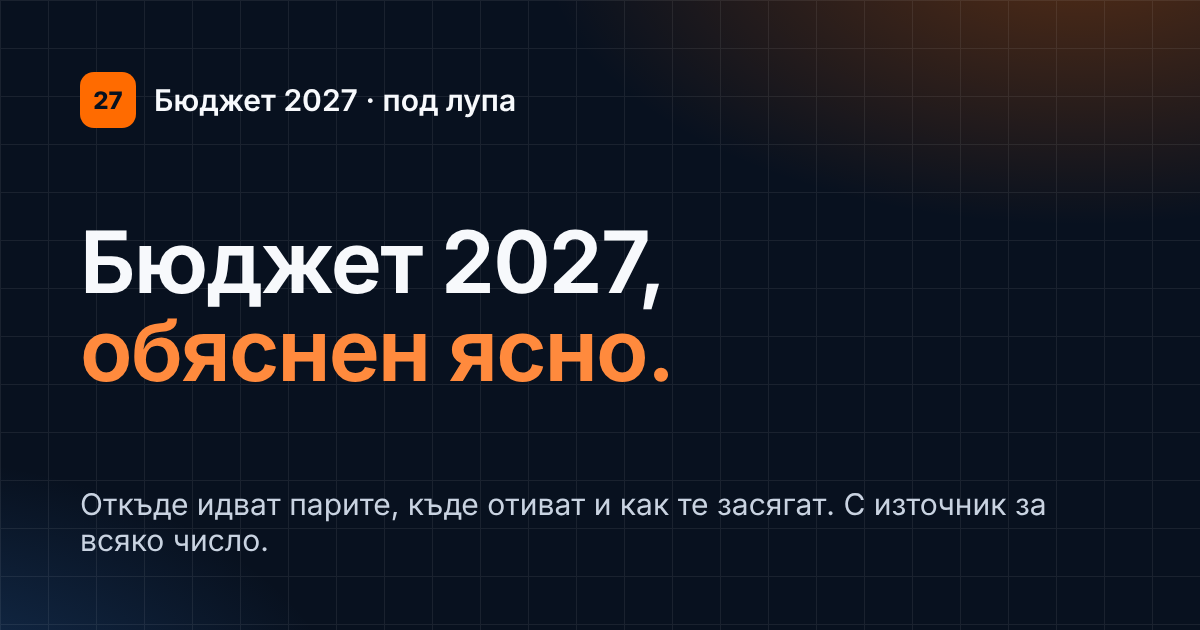
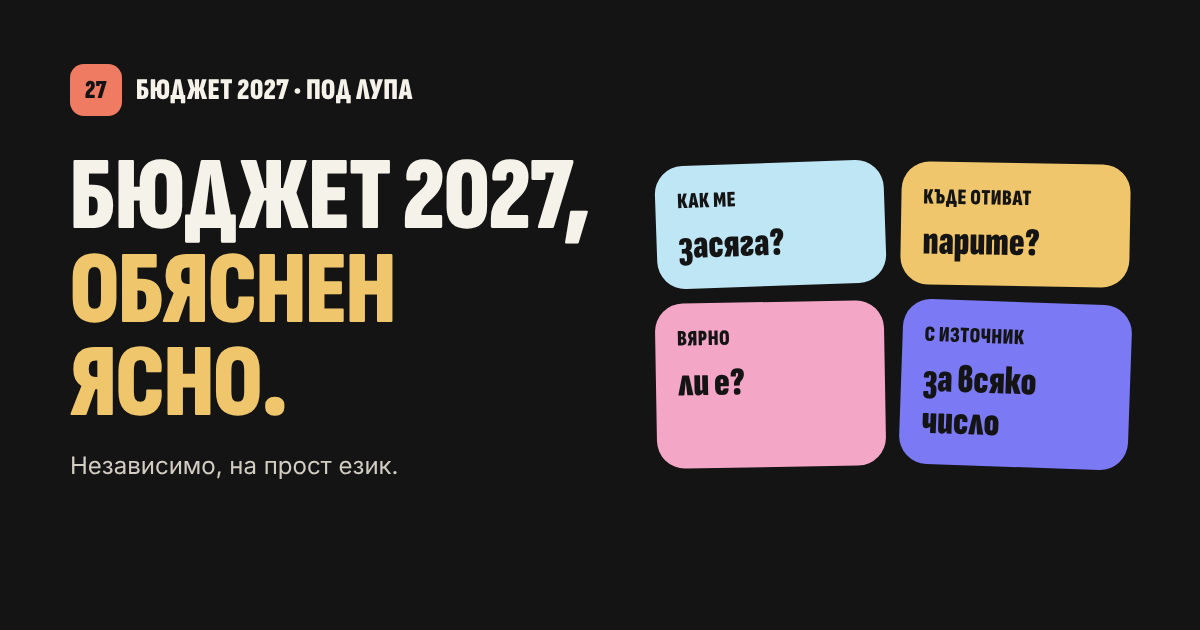
Fonts: Sofia Sans Extra Condensed (Bulgarian letterforms) for headings, Inter for text
- Replace Oswald with Sofia Sans Extra Condensed 800/900, locl on; headings ~15% larger to keep weight
- New OG image with the same fonts and no figures (a static image cannot carry a source)

Claude-Session: https://claude.ai/code/session_018DNDP1WdFr498i873xvtDW

diff --git a/budget-2027/src/app/page.tsx b/budget-2027/src/app/page.tsx
@@ -121,7 +121,7 @@ export default async function Home() {
                 <span className="h-2 w-2 rounded-full bg-card-rose" aria-hidden />
                 Законопроект, внесен на {dateBg(bill.date)} · още не е приет
               </p>
-              <h1 id="hero-title" className="font-display text-[3.1rem] leading-[0.95] font-semibold tracking-tight uppercase sm:text-7xl lg:text-[5.5rem]">
+              <h1 id="hero-title" className="font-display text-[3.6rem] leading-[0.92] font-semibold tracking-tight uppercase sm:text-[5.2rem] lg:text-[6.6rem]">
                 Бюджет 2027,
                 <br />
                 <span className="text-card-mustard">обяснен ясно.</span>
@@ -159,7 +159,7 @@ export default async function Home() {
 
         {/* ── Entry points ───────────────────────────────────── */}
         <section aria-labelledby="start-title" className="mx-auto max-w-7xl px-4 pt-14 sm:px-6 sm:pt-20">
-          <h2 id="start-title" className="font-display text-4xl font-semibold tracking-tight sm:text-5xl">
+          <h2 id="start-title" className="font-display text-[2.6rem] leading-[1] font-semibold tracking-tight sm:text-[3.4rem]">
             С какво да започнеш?
           </h2>
           <ul className="mt-8 grid gap-5 md:grid-cols-3">
@@ -167,7 +167,7 @@ export default async function Home() {
               <li key={e.href}>
                 <Link href={e.href} className={`group relative flex h-full flex-col gap-4 rounded-[2rem] p-6 text-on-card shadow-xl shadow-black/10 transition duration-300 hover:-translate-y-1 sm:p-7 ${ENTRY_BG[i]}`}>
                   <span className="flex items-start justify-between gap-4">
-                    <span className="font-display text-[2rem] leading-[0.95] font-semibold tracking-tight">{e.title}</span>
+                    <span className="font-display text-[2.4rem] leading-[0.95] font-semibold tracking-tight">{e.title}</span>
                     <span aria-hidden className="grid h-11 w-11 shrink-0 place-items-center rounded-full bg-white text-[#141414] shadow-md transition group-hover:rotate-45">
                       <Icon name="arrow" className="h-5 w-5 -rotate-45" />
                     </span>
@@ -190,7 +190,7 @@ export default async function Home() {
           <div className="grid gap-10 lg:grid-cols-[minmax(0,5fr)_minmax(0,7fr)] lg:items-start [&>*]:min-w-0">
             <div className="flex flex-col gap-4">
               <p className="inline-flex w-fit rounded-full bg-card-mustard px-3 py-1 text-[13px] font-semibold text-on-card">Къде отиват парите</p>
-              <h2 id="kade-title" className="font-display text-4xl leading-[1.05] font-semibold tracking-tight text-balance sm:text-5xl">
+              <h2 id="kade-title" className="font-display text-[2.6rem] leading-[1] font-semibold tracking-tight text-balance sm:text-[3.4rem]">
                 {fmtNum(top[0]!.share, 0)}% от разходите отиват за {top[0]!.label.toLowerCase().replace(", подпомагане и грижи", ", помощи и грижи")}
               </h2>
               <p className="text-[17px] leading-relaxed text-ink-2">
@@ -212,7 +212,7 @@ export default async function Home() {
             <div className="flex flex-wrap items-end justify-between gap-3">
               <div>
                 <p className="inline-flex w-fit rounded-full bg-card-rose px-3 py-1 text-[13px] font-semibold text-on-card">Дефицит</p>
-                <h2 id="def-title" className="font-display mt-3 text-3xl font-semibold tracking-tight sm:text-4xl">
+                <h2 id="def-title" className="font-display mt-3 text-[2.2rem] leading-[1] font-semibold tracking-tight sm:text-[2.8rem]">
                   Колко не достига всяка година
                 </h2>
               </div>
@@ -244,7 +244,7 @@ export default async function Home() {
         {/* ── Three things to know ───────────────────────────── */}
         <section aria-labelledby="know-title" className="mx-auto max-w-7xl px-4 pt-16 sm:px-6 sm:pt-24">
           <div className="flex flex-wrap items-end justify-between gap-4">
-            <h2 id="know-title" className="font-display text-4xl font-semibold tracking-tight sm:text-5xl">
+            <h2 id="know-title" className="font-display text-[2.6rem] leading-[1] font-semibold tracking-tight sm:text-[3.4rem]">
               3 неща, които да знаеш
             </h2>
             <Link href="/pod-lupa" className="inline-flex items-center gap-2 text-[15px] font-semibold text-accent">
@@ -261,7 +261,7 @@ export default async function Home() {
                       {f.tone === "positive" ? "Подобрение" : f.tone === "risk" ? "Риск" : "Данни"}
                     </span>
                   </span>
-                  <span className="font-display text-2xl leading-tight font-semibold tracking-tight text-balance">{f.title}</span>
+                  <span className="font-display text-[1.8rem] leading-[1.05] font-semibold tracking-tight text-balance">{f.title}</span>
                   <span className="text-[16px] leading-relaxed text-ink-2">{bgText(f.conclusion)}</span>
                   <span className="mt-auto flex items-center justify-between pt-2 text-sm font-semibold">
                     <span className="text-muted">Как го изчислихме</span>
@@ -277,7 +277,7 @@ export default async function Home() {
 
         {/* ── Topics ─────────────────────────────────────────── */}
         <section aria-labelledby="topics-title" className="mx-auto max-w-7xl px-4 pt-16 sm:px-6 sm:pt-24">
-          <h2 id="topics-title" className="font-display text-4xl font-semibold tracking-tight sm:text-5xl">
+          <h2 id="topics-title" className="font-display text-[2.6rem] leading-[1] font-semibold tracking-tight sm:text-[3.4rem]">
             Разгледай по тема
           </h2>
           <ul className="mt-8 grid grid-cols-2 gap-3 sm:grid-cols-3 lg:grid-cols-4">
@@ -300,7 +300,7 @@ export default async function Home() {
         {/* ── Trust ──────────────────────────────────────────── */}
         <section aria-labelledby="trust-title" className="mx-auto max-w-7xl px-4 pt-16 pb-6 sm:px-6 sm:pt-24">
           <div className="rounded-[2rem] bg-card-mustard p-6 text-on-card sm:p-10">
-            <h2 id="trust-title" className="font-display text-4xl font-semibold tracking-tight sm:text-5xl">
+            <h2 id="trust-title" className="font-display text-[2.6rem] leading-[1] font-semibold tracking-tight sm:text-[3.4rem]">
               Защо да ни вярваш?
             </h2>
             <ul className="mt-8 grid gap-8 md:grid-cols-3">

diff --git a/budget-2027/src/components/site/PageShell.tsx b/budget-2027/src/components/site/PageShell.tsx
@@ -52,7 +52,7 @@ export async function PageShell({
         <header className="on-dark bg-hero">
           <div className="mx-auto flex max-w-7xl flex-col gap-5 px-4 pt-9 pb-10 sm:px-6 sm:pt-14 sm:pb-14">
             <p className="inline-flex w-fit items-center rounded-full bg-card-mustard px-3 py-1 text-[13px] font-semibold text-on-card">{eyebrow}</p>
-            <h1 className="font-display max-w-4xl text-[2.6rem] leading-[1] font-semibold tracking-tight text-balance uppercase sm:text-6xl">{title}</h1>
+            <h1 className="font-display max-w-4xl text-[3rem] leading-[0.95] font-semibold tracking-tight text-balance uppercase sm:text-[4.4rem]">{title}</h1>
             <div className="flex max-w-3xl flex-col gap-3 text-[17px] leading-relaxed text-ink-2">{lead}</div>
             {facts && facts.length > 0 && (
               <section aria-label="Накратко" className="mt-2">
@@ -61,7 +61,7 @@ export async function PageShell({
                   {facts.map((f) => (
                     <div key={f.label} className={`flex flex-col gap-1 rounded-3xl p-4 text-on-card shadow-lg shadow-black/30 sm:p-5 ${TONE[f.tone]}`}>
                       <dt className="text-sm font-semibold">{f.label}</dt>
-                      <dd className="num font-display text-[2.3rem] leading-none font-semibold">
+                      <dd className="num font-display text-[2.7rem] leading-none font-semibold">
                         {fmtNum(f.value, f.decimals ?? 1)}
                         <span className="ml-1.5 font-sans text-sm font-medium">{f.unit}</span>
                       </dd>
@@ -89,7 +89,7 @@ export function Section({ id, title, lead, children }: { id?: string; title: str
   return (
     <section id={id} aria-labelledby={id ? `${id}-t` : undefined} className="flex scroll-mt-24 flex-col gap-5">
       <div className="flex max-w-3xl flex-col gap-2">
-        <h2 id={id ? `${id}-t` : undefined} className="font-display text-[1.9rem] leading-tight font-semibold tracking-tight text-balance sm:text-[2.3rem]">
+        <h2 id={id ? `${id}-t` : undefined} className="font-display text-[2.2rem] leading-[1.02] font-semibold tracking-tight text-balance sm:text-[2.8rem]">
           {title}
         </h2>
         {lead && <div className="text-[16px] leading-relaxed text-ink-2">{lead}</div>}

diff --git a/budget-2027/src/app/kalkulator/page.tsx b/budget-2027/src/app/kalkulator/page.tsx
@@ -30,7 +30,7 @@ export default async function CalculatorPage() {
       <main id="main" className="mx-auto flex max-w-7xl flex-col gap-8 px-4 pt-8 pb-28 sm:px-6 sm:pt-12 lg:pb-20">
         <header className="flex max-w-3xl flex-col gap-4">
           <p className="inline-flex w-fit items-center rounded-full bg-card-mustard px-3 py-1 text-[13px] font-semibold text-on-card">Калкулатор · трудов договор</p>
-          <h1 className="font-display text-[2.6rem] leading-[1] font-semibold tracking-tight text-balance uppercase sm:text-6xl">Колко ще получаваш през 2027 г.?</h1>
+          <h1 className="font-display text-[3rem] leading-[0.95] font-semibold tracking-tight text-balance uppercase sm:text-[4.4rem]">Колко ще получаваш през 2027 г.?</h1>
           <p className="text-[17px] leading-relaxed text-ink-2">
             Въведи брутната си заплата и виж нетната сума, данъка и осигуровките по сегашните правила и по предложението за 2027 г.
           </p>

diff --git a/budget-2027/src/app/globals.css b/budget-2027/src/app/globals.css
@@ -130,7 +130,7 @@
   --color-on-card-2: var(--on-card-2);
   --color-tile: var(--tile);
   --color-hero: var(--hero);
-  --font-display: "Oswald Variable", "Oswald", "Inter Variable", system-ui, sans-serif;
+  --font-display: "Sofia Sans Extra Condensed", "Inter Variable", system-ui, sans-serif;
   --font-sans: "Inter Variable", "Inter", system-ui, -apple-system, "Segoe UI", Roboto, sans-serif;
   --font-mono: "IBM Plex Mono", ui-monospace, "SFMono-Regular", Menlo, monospace;
 }
@@ -210,4 +210,18 @@ details > summary::-webkit-details-marker {
 }
 .on-dark a {
   text-decoration-color: currentColor;
+}
+
+/* Display face: Sofia Sans Extra Condensed (Bulgarian letterforms via lang="bg" / locl).
+   Only 800 and 900 are loaded; "semibold" headings render at 800, bold ones at 900. */
+.font-display {
+  font-feature-settings: "locl";
+  letter-spacing: -0.005em;
+}
+.font-display.font-semibold,
+.font-display .font-semibold {
+  font-weight: 800;
+}
+.font-display.font-bold {
+  font-weight: 900;
 }

diff --git a/budget-2027/src/app/analizi/asen-vasilev/page.tsx b/budget-2027/src/app/analizi/asen-vasilev/page.tsx
@@ -69,7 +69,7 @@ export default async function AsenVasilevPage() {
         </section>
 
         <section aria-labelledby="statements" className="flex flex-col gap-3">
-          <h2 id="statements" className="font-display text-[1.9rem] font-semibold tracking-tight">
+          <h2 id="statements" className="font-display text-[2.2rem] font-semibold tracking-tight">
             Изказвания
           </h2>
           <ol className="flex flex-col">
@@ -91,7 +91,7 @@ export default async function AsenVasilevPage() {
         </section>
 
         <section aria-labelledby="claims" className="flex flex-col gap-4">
-          <h2 id="claims" className="font-display text-[1.9rem] font-semibold tracking-tight">
+          <h2 id="claims" className="font-display text-[2.2rem] font-semibold tracking-tight">
             Твърдения и проверка
           </h2>
           <ClaimsExplorer archive={archive} />

diff --git a/budget-2027/src/components/home/BudgetCard.tsx b/budget-2027/src/components/home/BudgetCard.tsx
@@ -45,7 +45,7 @@ export function BudgetCard({ years, initial }: { years: YearFacts[]; initial: st
         {CARDS.map((c) => (
           <div key={c.key} className={`flex flex-col gap-1 rounded-3xl p-4 text-on-card shadow-lg shadow-black/30 transition hover:rotate-0 sm:p-5 ${c.bg} ${c.tilt}`}>
             <dt className="font-display text-sm font-semibold tracking-wide uppercase">{c.label}</dt>
-            <dd className="num font-display text-[2.4rem] leading-none font-semibold sm:text-5xl">{fmtNum(f[c.key], 1)}</dd>
+            <dd className="num font-display text-[2.9rem] leading-none font-semibold sm:text-6xl">{fmtNum(f[c.key], 1)}</dd>
             {pct[c.key] && <dd className="num mt-1 w-fit rounded-full bg-tile px-2.5 py-0.5 font-mono text-xs text-white">{fmtNum(pct[c.key]!.replace("-", ""), 1)}% от БВП</dd>}
           </div>
         ))}

diff --git a/budget-2027/src/components/home/SectorList.tsx b/budget-2027/src/components/home/SectorList.tsx
@@ -19,7 +19,7 @@ export function SectorList({ years, initial, top = 6 }: { years: SectorYear[]; i
   return (
     <figure className="rounded-[2rem] bg-card-violet p-5 text-on-card shadow-xl shadow-black/20 sm:p-7">
       <figcaption className="flex flex-wrap items-center justify-between gap-3">
-        <span className="font-display text-2xl font-semibold">Разходи по сектори</span>
+        <span className="font-display text-[1.9rem] font-semibold">Разходи по сектори</span>
         <span className="num rounded-full bg-tile px-3 py-1 font-mono text-xs text-white">общо {fmtNum(d.total, 1)} млрд. €</span>
       </figcaption>
       <div className="mt-4">

diff --git a/budget-2027/src/app/layout.tsx b/budget-2027/src/app/layout.tsx
@@ -1,7 +1,10 @@
 import { siteUrl } from "@/lib/site-url";
 import type { Metadata, Viewport } from "next";
 import "@fontsource-variable/inter";
-import "@fontsource-variable/oswald";
+import "@fontsource/sofia-sans-extra-condensed/cyrillic-800.css";
+import "@fontsource/sofia-sans-extra-condensed/latin-800.css";
+import "@fontsource/sofia-sans-extra-condensed/cyrillic-900.css";
+import "@fontsource/sofia-sans-extra-condensed/latin-900.css";
 import "@fontsource/ibm-plex-mono/cyrillic-400.css";
 import "@fontsource/ibm-plex-mono/latin-400.css";
 import "./globals.css";

diff --git a/budget-2027/src/components/fiscal/LawFigures.tsx b/budget-2027/src/components/fiscal/LawFigures.tsx
@@ -34,7 +34,7 @@ export function StatTile({
         <h3 className="text-[14px] font-semibold text-ink-2">{label}</h3>
         <span className="text-[11px] text-muted">{tag}</span>
       </header>
-      <p className="num font-display text-[2.4rem] leading-none font-semibold">
+      <p className="num font-display text-[2.8rem] leading-none font-semibold">
         {v === null ? "няма данни" : signed ? fmtSigned(v, dp) : fmtNum(v, dp)}
         {v !== null && <span className="ml-1.5 text-base font-normal text-muted">{show}</span>}
       </p>

diff --git a/budget-2027/src/components/fiscal/KpiTile.tsx b/budget-2027/src/components/fiscal/KpiTile.tsx
@@ -45,7 +45,7 @@ export function KpiTile({ series, period = "2027", base = "2026", ratio, display
           {period} · {VINTAGE_SHORT[p.vintage]}
         </span>
       </header>
-      <p className={`num font-display font-semibold leading-none ${size === "lg" ? "text-5xl sm:text-6xl" : "text-[2.4rem]"}`}>
+      <p className={`num font-display font-semibold leading-none ${size === "lg" ? "text-6xl sm:text-7xl" : "text-[2.8rem]"}`}>
         {num}
         <span className="ml-1.5 text-base font-normal text-muted">{unitLabel}</span>
       </p>

diff --git a/budget-2027/src/components/site/SiteHeader.tsx b/budget-2027/src/components/site/SiteHeader.tsx
@@ -19,7 +19,7 @@ export function Logo() {
         27
       </span>
       <span className="flex flex-col leading-none">
-        <span className="font-display text-[17px] font-semibold tracking-wide uppercase">Бюджет 2027</span>
+        <span className="font-display text-[20px] font-semibold tracking-wide uppercase">Бюджет 2027</span>
         <span className="mt-0.5 text-[11px] text-muted">под лупа</span>
       </span>
     </Link>

diff --git a/docs/DESIGN_SYSTEM.md b/docs/DESIGN_SYSTEM.md
@@ -78,3 +78,8 @@
 - **Вътрешни страници:** тъмна заглавна лента (`.on-dark` превключва токените) и „Накратко“ с до 3 цветни карти и ред с източника (`PageShell facts` / `factsSource`). Плочките и таблиците са в заоблени карти.
 - **Превключватели на годината:** в картите с числата (2026–2028) и в графиката на секторите (2026–2029).
 - **Калкулатор:** бързи примери; при нулева разлика пише „без промяна спрямо 2026“.
+
+## Шрифтове (2026-11-21)
+- **Заглавия:** Sofia Sans Extra Condensed 800/900 (българско студио), с български форми на буквите чрез `lang="bg"` и `font-feature-settings: "locl"`. Размерите са с около 15% по-големи от тези с Oswald, защото шрифтът е по-тесен.
+- **Текст:** Inter (стандартни форми на кирилицата за най-добра четимост). **Моноширинен:** IBM Plex Mono за етикети и метаданни.
+- **OG изображение:** със същите шрифтове; без числа, защото е статично и не носи източник.
